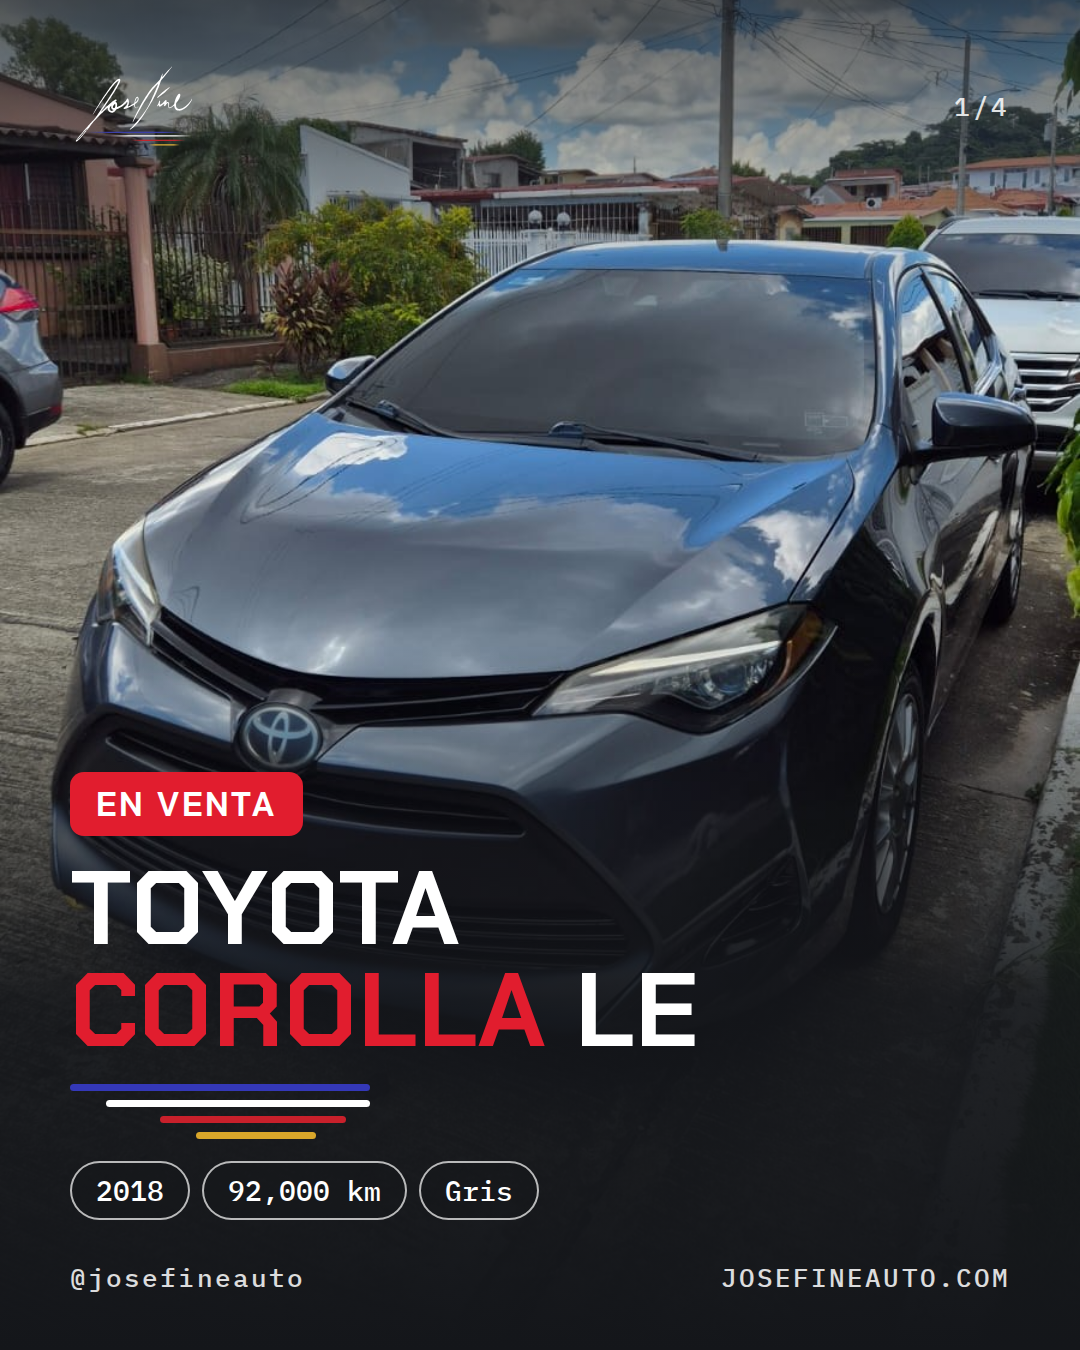
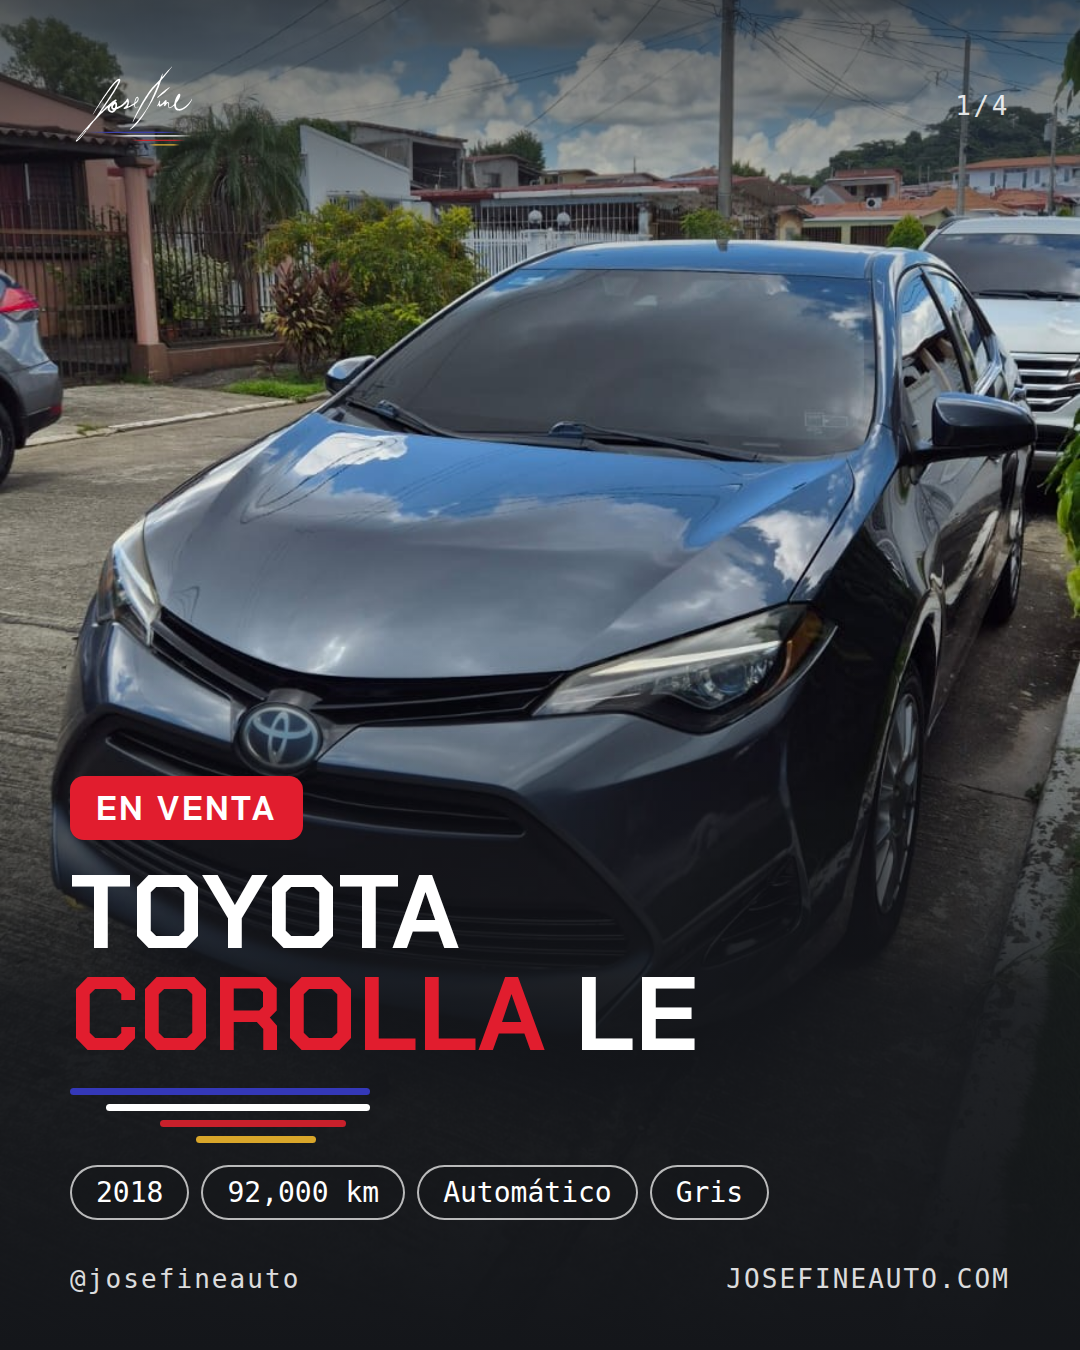
Corolla LE 2018: transmisión automática (dada por el dueño)
Claude-Session: https://claude.ai/code/session_01Waia73eHNWtSrif5AzmwHD

diff --git a/web/kit/index.html b/web/kit/index.html
@@ -52,7 +52,7 @@
     var WEB = "josefineauto.com";
     var POSTS = [
       { id: "post9-corolla", n: 4, semana: "HOY · En venta", titulo: "Toyota Corolla LE 2018",
-        texto: "EN VENTA 🔥 Toyota Corolla LE 2018\n\n📍 Panamá · 92,000 km · Gris\n\n✅ Versión LE\n✅ Sedán 4 puertas\n✅ Rines de aluminio\n\n💬 Precio por DM\n👇 Comenta COROLLA y te escribimos\n🌐 " + WEB + "\n\n#toyota #corolla #toyotacorolla #carrospanama #autospanama #panama #josefineauto" },
+        texto: "EN VENTA 🔥 Toyota Corolla LE 2018\n\n📍 Panamá · 92,000 km · Automático · Gris\n\n✅ Versión LE\n✅ Sedán 4 puertas\n✅ Rines de aluminio\n\n💬 Precio por DM\n👇 Comenta COROLLA y te escribimos\n🌐 " + WEB + "\n\n#toyota #corolla #toyotacorolla #carrospanama #autospanama #panama #josefineauto" },
       { id: "post8-cx5", n: 6, semana: "HOY · En venta", titulo: "Mazda CX-5 2015",
         texto: "EN VENTA 🔥 Mazda CX-5 2015\n\n📍 Panamá · 60,000 km · Automática · Blanca\n\n✅ Motor SkyActiv\n✅ Rines de aluminio\n✅ Interior negro\n✅ Ideal para la familia\n\n💬 Precio por DM\n👇 Comenta CX5 y te escribimos\n🌐 " + WEB + "\n\n#mazda #mazdacx5 #cx5 #carrospanama #autospanama #panama #josefineauto" },
       { id: "post7-x3", n: 7, semana: "HOY · En venta", titulo: "BMW X3 xDrive28i M Sport 2014",

diff --git a/herramientas/build/generar-post-corolla.js b/herramientas/build/generar-post-corolla.js
@@ -52,7 +52,7 @@ const T = 4;
 const LAMINAS = [
   `<div class="s"><div class="bg" style="background-image:url('${foto(1)}');background-position:center 60%"></div><div class="velo"></div>${top(`1/${T}`)}
     <div class="txt"><span class="tag">En venta</span><h1>Toyota<br><em>Corolla</em> LE</h1>${F}
-    <div class="chips"><span>2018</span><span>92,000 km</span><span>Gris</span></div></div>${pie}</div>`,
+    <div class="chips"><span>2018</span><span>92,000 km</span><span>Automático</span><span>Gris</span></div></div>${pie}</div>`,
   `<div class="s"><div class="bg" style="background-image:url('${foto(2)}');background-position:center 60%"></div><div class="velo"></div>${top(`2/${T}`)}
     <div class="txt"><div class="chips"><span>Sedán</span><span>Rines de aluminio</span></div></div>${pie}</div>`,
   `<div class="s"><div class="bg" style="background-image:url('${foto(3)}');background-position:center 60%"></div><div class="velo"></div>${top(`3/${T}`)}

diff --git a/companion/web.html b/companion/web.html
@@ -588,6 +588,7 @@ window.INVENTARIO = [
     "modelo": "Corolla LE",
     "anio": 2018,
     "km": 92000,
+    "transmision": "Automática",
     "precio": 10000,
     "estado": "disponible",
     "fotos": [

diff --git a/web/datos.js b/web/datos.js
@@ -130,6 +130,7 @@ window.INVENTARIO = [
     "modelo": "Corolla LE",
     "anio": 2018,
     "km": 92000,
+    "transmision": "Automática",
     "precio": 10000,
     "estado": "disponible",
     "fotos": [

diff --git a/docs/normas.md b/docs/normas.md
@@ -17,7 +17,7 @@ Lo que está aquí no se vuelve a preguntar. Si dos normas chocan, manda la más
 | N10 | 2026-10-06 | GLE 53 | «quita el precio y quita mi numero y di que precio al DM» (post y ficha web; reemplaza el precio publicado de N09) | Chat |
 | N11 | 2026-10-14 | Web: GLE 53 y BMW X3 | «En el mercedes quita el Precio a comisiones y pon 65,000 y al Bmw 11,500» → GLE 53 sin etiqueta "A comisión" y $65,000; BMW X3 M Sport 2014 $11,500 (reemplaza N10 para la web). Publicado en la misma sesión por elección del dueño ("Hazlo aquí, por esta vez"), excepción a la regla diamante de precios en sesión nueva | Chat (pregunta de opción múltiple) |
 | N12 | 2026-10-15 | Web: Mazda CX-5 2015 | «60 mil Km, 8,500 precio / Quita lo de doble salida de escape» → km 60,000 y precio $8,500 en la web (el post sigue "Precio por DM", como N11). "Doble salida de escape" ya se había quitado de la CX-5 antes de publicarla; el dueño confirmó que el X3 se queda igual. Cifra dada por el dueño en el mensaje; publicada en la misma sesión, como en N11 | Chat |
-| N13 | 2026-10-15 | Web: Toyota Corolla LE 2018 | Confirmado por el dueño en la herramienta de preguntas: «Sí, súbelo a $10,000» (publicar en esta sesión). Pedido: «Sube ese corolla a la pagina web siguiendo lo de siempre ponlo en 10 mil dólares» + respuestas «2018» y «92 mil» → precio $10,000, año 2018, 92,000 km en la web (el post sigue "Precio por DM", como N11). Transmisión no dada: no se publica. Placa tapada y teléfono del letrero trasero difuminado. El collage que mandó parece generado por IA: no se usa (la web promete fotos reales) | Chat |
+| N13 | 2026-10-15 | Web: Toyota Corolla LE 2018 | Confirmado por el dueño en la herramienta de preguntas: «Sí, súbelo a $10,000» (publicar en esta sesión). Pedido: «Sube ese corolla a la pagina web siguiendo lo de siempre ponlo en 10 mil dólares» + respuestas «2018» y «92 mil» → precio $10,000, año 2018, 92,000 km en la web (el post sigue "Precio por DM", como N11). Transmisión: «Automatico» (dada después por el dueño). Placa tapada y teléfono del letrero trasero difuminado. El collage que mandó parece generado por IA: no se usa (la web promete fotos reales) | Chat |
 
 ## Consecuencias de N06 en este proyecto (2026-10-05)
 - Gate `herramientas/check.py` en hook Stop y pre-push; lista `PENDIENTE-DUENO.md`; este registro; `CONTINUAR.md`; `IDEAS.md`; agente revisor.
